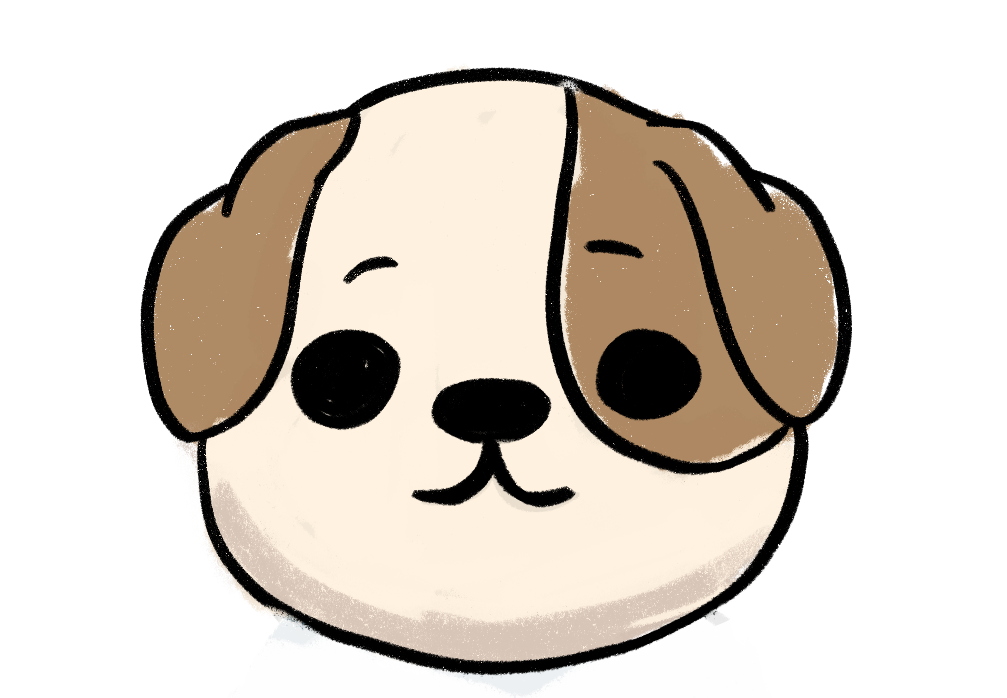
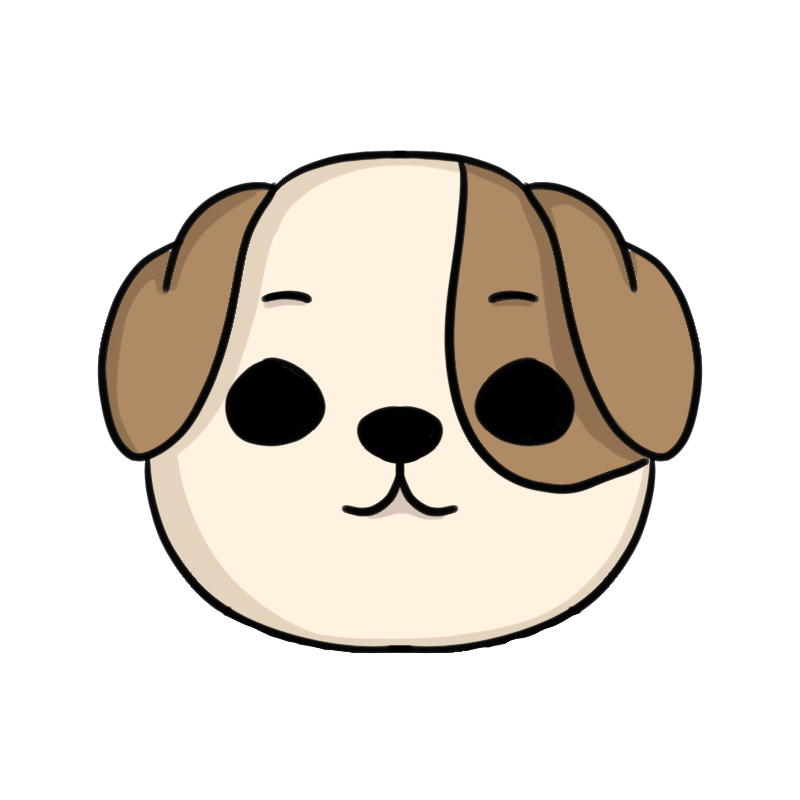
added clothes

Changed region(s): [[0.125, 0.0903, 0.875, 0.9928]]

diff --git a/client/src/constants/resources.js b/client/src/constants/resources.js
@@ -7,12 +7,52 @@ export const emotions = {
 }
 
 export const tops = {
+
+    // t shirts
     white_tshirt: require("../assets/tops/white_tshirt.png"),
+    grey_tshirt: require("../assets/tops/grey_tshirt.png"),
+    dport_tshirt: require("../assets/tops/dport_tshirt.png"),
+    morse_tshirt: require("../assets/tops/morse_tshirt.png"),
+    pierson_tshirt: require("../assets/tops/pierson_tshirt.png"),
+    bulldog_tshirt: require("../assets/tops/bulldog_tshirt.png"),
+    orange_tshirt: require("../assets/tops/orange_tshirt.png"),
+    yellow_tshirt: require("../assets/tops/yellow_tshirt.png"),
+    brown_tshirt: require("../assets/tops/brown_tshirt.png"),
+
     white_tank: require("../assets/tops/white_tank.png"),
+
+    // long sleeves
     white_longsleeve: require("../assets/tops/white_longsleeve.png"),
+    blueyale_longsleeve: require("../assets/tops/blueyale_longsleeve.png"),
+    greyyale_longsleeve: require("../assets/tops/greyyale_longsleeve.png"),
+    suit_jacket: require("../assets/tops/suit_jacket.png"),
+    orange_longsleeve: require("../assets/tops/orange_longsleeve.png"),
+    yellow_longsleeve: require("../assets/tops/yellow_longsleeve.png"),
+
 }
 
 export const bottoms = {
+
+    // pants
     white_pants: require("../assets/bottoms/white_pants.png"),
+    suit_pants: require("../assets/bottoms/suit_pants.png"),
+    plaid_pajamas: require("../assets/bottoms/plaid_pajamas.png"),
+    medium_jeans: require("../assets/bottoms/medium_jeans.png"),
+    light_jeans: require("../assets/bottoms/light_jeans.png"),
+
+    // shorts
     white_shorts: require("../assets/bottoms/white_shorts.png"),
 };
+
+export const accessories = {
+
+    black_sunglasses: require("../assets/accessories/black_sunglasses.png"),
+    blue_sunglasses: require("../assets/accessories/blue_sunglasses.png"),
+    yellow_sunglasses: require("../assets/accessories/yellow_sunglasses.png"),
+    glasses: require("../assets/accessories/glasses.png"),
+
+    yellow_headband: require("../assets/accessories/yellow_headband.png"),
+    blue_headband: require("../assets/accessories/blue_headband.png"),
+
+
+}

diff --git a/client/src/services/AppearanceService.js b/client/src/services/AppearanceService.js
@@ -1,5 +1,5 @@
 import { getQualityPoints, getPointInfo } from "./PointsService";
-import { emotions, tops, bottoms } from "../constants/resources";
+import { emotions, tops, bottoms, accessories } from "../constants/resources";
 
 /**
  * Returns the path to the image of the user's current emotion.
@@ -42,7 +42,7 @@ export function getClothesPath() {
     const clothesPath = {
         top: tops[clothes.top],
         bottom: bottoms[clothes.bottom],
-        accessories: null
+        accessories: accessories[clothes.accessories],
     };
     return clothesPath;
 
@@ -54,10 +54,12 @@ export function getClothesPath() {
  */
 export function getClothes() {
 
+    // TODO: update once service is implemented
+
     return {
-        top: "white_tshirt",
-        bottom: "white_pants",
-        accessories: null,
+        top: "pierson_tshirt",
+        bottom: "medium_jeans",
+        accessories: "black_sunglasses",
     }
 
 }
